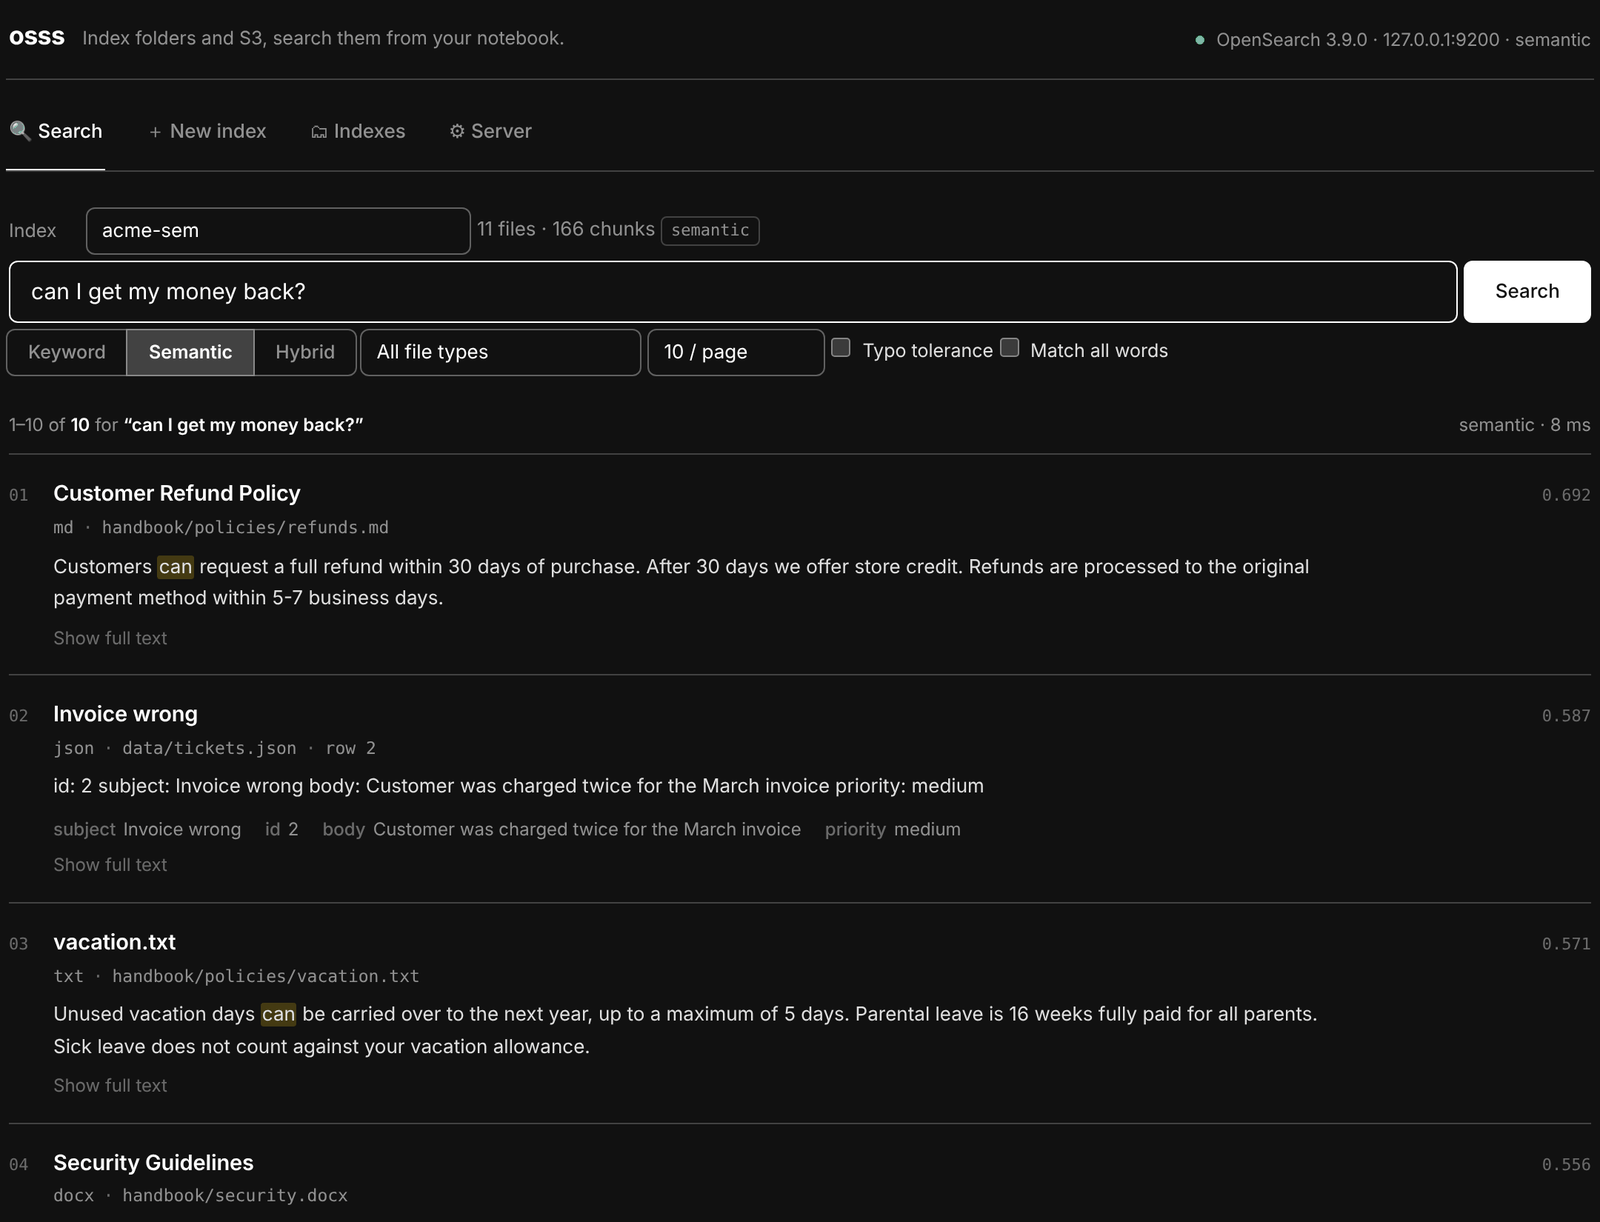
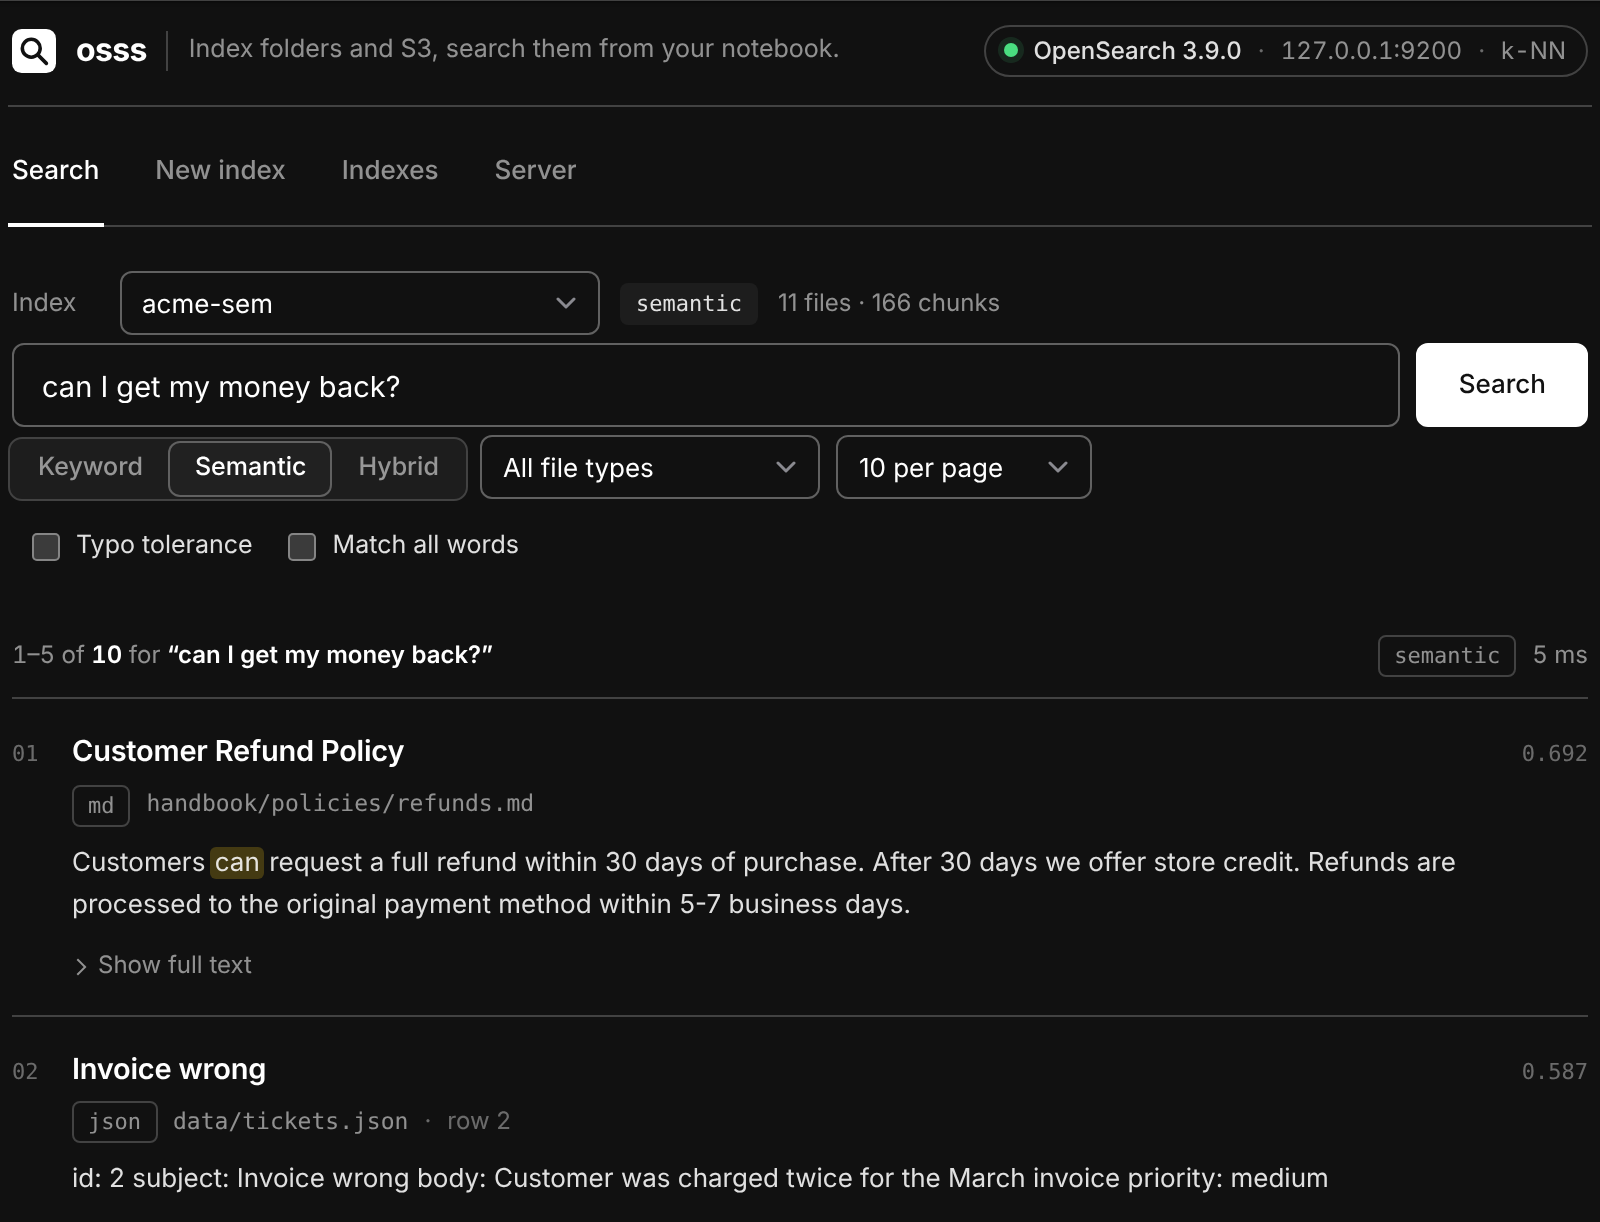
Regenerate docs screenshots for the new UI; fix row spacing and list indent
- All 15 app screenshots in docs/images are recaptured at 2x from a live
  JupyterLab against a real local OpenSearch and a sample corpus. The two
  semantic shots render the same Hit/SearchResults objects through the UI
  with a stand-in cluster, since the k-NN build and PyTorch weren't
  available in the capture environment.
- Docs and README refer to tabs and controls by their new plain names and
  describe the live scan count, inline messages, the confirm-to-delete
  state and the locked server options.
- ipywidgets' Layout has no `gap` trait, so the gap= passed to rows was
  silently ignored; spacing is now applied with CSS classes.
- Scan file lists were indented in plain cell outputs because JupyterLab's
  rendered-HTML `ul` rules out-rank ours.

Claude-Session: https://claude.ai/code/session_011KqyjRbeUxaqxTYBneMNoE

diff --git a/src/osss/ui/styles.py b/src/osss/ui/styles.py
@@ -209,7 +209,9 @@ body[data-jp-theme-light="false"] .osss, .vscode-dark .osss, .vscode-high-contra
 .osss table.o-table .num { text-align: right; font-variant-numeric: tabular-nums; }
 .osss table.o-table tr:last-child td { border-bottom: 0; }
 .osss .o-health { display: inline-flex; align-items: center; gap: 8px; }
-.osss .o-files { margin: 12px 0 0; padding: 0; list-style: none; font-size: 12px; max-height: 260px; overflow: auto; }
+/* !important: JupyterLab's rendered-HTML rules (``.jp-RenderedHTMLCommon ul``) are more specific */
+.osss ul.o-files { margin: 12px 0 0 !important; padding: 0 !important; list-style: none !important; font-size: 12px; max-height: 260px; overflow: auto; }
+.osss ul.o-files li { margin: 0 !important; }
 .osss .o-files li { display: flex; justify-content: space-between; gap: 16px; padding: 6px 0; border-top: 1px solid var(--o-line); color: var(--o-fg2); }
 .osss .o-files li span:first-child { font-family: var(--o-mono); font-size: 11.5px; overflow: hidden; text-overflow: ellipsis; white-space: nowrap; min-width: 0; }
 .osss .o-files li span:last-child { color: var(--o-faint); flex: none; font-variant-numeric: tabular-nums; }
@@ -357,6 +359,10 @@ body[data-jp-theme-light="false"] .osss, .vscode-dark .osss, .vscode-high-contra
 .osss-app .o-panel-head { margin-bottom: 4px; }
 .osss-app .o-divider { border-top: 1px solid var(--o-line); margin: 10px 0 6px !important; }
 .osss-app .o-flat { padding: 0 !important; }
+.osss-app .o-g4 { gap: 4px; }
+.osss-app .o-g6 { gap: 6px; }
+.osss-app .o-g10 { gap: 10px; }
+.osss-app .o-g14 { gap: 14px; }
 .osss-app .o-stack { gap: 6px; }
 .osss-app .o-stack > .widget-html:first-child .widget-html-content { line-height: 1.2; }
 </style>

diff --git a/src/osss/ui/app.py b/src/osss/ui/app.py
@@ -43,11 +43,16 @@ def _panel(*children: W.Widget, gap: str = "8px") -> W.VBox:
     return box
 
 
+ROW_GAPS = (4, 6, 10, 14)  # extra px on top of the 2px margin every widget already has on each side
+
+
 def _row(*children: W.Widget, align: str = "center", wrap: bool = True, gap: str = "8px") -> W.HBox:
     lay = dict(align_items=align, flex_flow="row wrap" if wrap else "row nowrap")
-    if _supports_gap():
-        lay["gap"] = gap
-    return W.HBox(list(children), layout=W.Layout(**lay))
+    box = W.HBox(list(children), layout=W.Layout(**lay))
+    # ipywidgets' Layout has no ``gap`` trait (only ``grid_gap``), so spacing is applied with a CSS class.
+    extra = max(0, int(gap.rstrip("px")) - 4)
+    box.add_class(f"o-g{min(ROW_GAPS, key=lambda g: abs(g - extra))}")
+    return box
 
 
 def _supports_gap() -> bool:

diff --git a/docs/guide/app.md b/docs/guide/app.md
@@ -11,17 +11,17 @@ It has four tabs:
 
 | Tab | Use it to |
 | --- | --- |
-| **🔍 Search** | Query an index, filter results and page through them |
-| **＋ New index** | Point at a folder or S3 prefix, configure and build |
-| **🗂 Indexes** | See what's there, add files or delete indexes |
-| **⚙ Server** | Start or stop OpenSearch, or connect to an existing cluster |
+| **Search** | Query an index, filter results and page through them |
+| **New index** | Point at a folder or S3 prefix, configure and build |
+| **Indexes** | See what's there, add files or delete indexes |
+| **Server** | Start or stop OpenSearch, or connect to an existing cluster |
 
 The status in the top-right corner always shows what you're connected to.
 
 !!! tip "Light and dark"
     The app follows your JupyterLab theme automatically. SageMaker Studio's dark mode works too.
 
-## 🔍 Search
+## Search
 
 ![Search tab](../images/search.png){ .shot .shot-light }
 ![Search tab, dark theme](../images/search-dark.png){ .shot .shot-dark }
@@ -29,9 +29,9 @@ The status in the top-right corner always shows what you're connected to.
 1. **Pick an index** from the dropdown. Next to it you'll see how many files and chunks it holds, and whether it supports semantic search.
 2. **Type a query** and press ++enter++, or click **Search**.
 3. **Refine** with the controls below the search box:
-    - **Keyword / Semantic / Hybrid** chooses how results are found. Semantic and hybrid appear only for indexes built with embeddings ([learn more](semantic.md)).
+    - **Keyword / Semantic / Hybrid** chooses how results are found. This switch appears only for indexes built with embeddings ([learn more](semantic.md)); other indexes always use keyword search.
     - **All file types** limits results to PDFs only, CSV rows only, and so on.
-    - **10 / page** sets how many results to show at a time.
+    - **10 per page** sets how many results to show at a time.
     - **Typo tolerance** still finds `refnud` when you meant `refund`.
     - **Match all words** requires every word instead of any of them.
 
@@ -51,17 +51,17 @@ With an empty search box, the tab shows an overview of the index and the first c
 !!! tip "Query syntax"
     `"exact phrase"`, `-exclude`, `prefix*` and `this | that` all work. See [Searching](searching.md#query-syntax).
 
-## ＋ New index
+## New index
 
 Building an index takes three steps, top to bottom.
 
 ### 01 · Choose your data
 
-Choose **📁 Local folder** or **☁ Amazon S3**, enter the path, and click **Scan**.
+Choose **Local folder** or **Amazon S3**, enter the path, and click **Scan**.
 
 ![Choosing an S3 prefix](../images/source-s3.png){ .shot }
 
-The scan counts files, total size and file types, lists a sample of files, and warns about any types osss can't read. Nothing is indexed yet.
+While it runs, a live counter shows how many files have been found so far, which helps on large S3 prefixes. The result counts files, total size and file types, lists a sample of files, and warns about any types osss can't read (they're shown struck through and marked *skipped*). Nothing is indexed yet.
 
 ![Scan results](../images/source-scan.png){ .shot }
 
@@ -87,31 +87,32 @@ The scan counts files, total size and file types, lists a sample of files, and w
 
 ### 03 · Build
 
-Click **Build index**. You'll see a live progress bar, counters for files, chunks, errors and elapsed time, and the most recent files processed. **Cancel** stops cleanly at any point.
+Click **Build index**. The button changes to *Building…* and you'll see a live progress bar, counters for files, chunks, errors and elapsed time, and the most recent files processed. **Cancel** stops cleanly at any point. If something needs fixing first (no server running, the name is taken, no file types selected), the message appears right under the button.
 
 When it finishes, a summary lists what was indexed, and any skipped or failed files with the reason. **Search this index** takes you straight to the results.
 
 ![Build finished](../images/build-step.png){ .shot }
 
-## 🗂 Indexes
+## Indexes
 
 ![Indexes tab](../images/indexes.png){ .shot }
 
 - The table shows every index with its chunk count, size on disk and health.
 - **Open in Search** jumps to the Search tab with that index selected.
-- **Details** shows the index's settings, file types and a few sample documents.
+- **Show details** shows the index's settings, file types and a few sample documents.
 - **Add files** indexes another folder or S3 prefix into the same index, using its original settings. Files that were indexed before are **replaced, not duplicated**, so re-running it after your documents change is safe.
-- **Delete** asks you to click twice, so nothing is removed by accident.
+- **Delete** turns red and asks you to click again to confirm, so nothing is removed by accident.
 
-## ⚙ Server
+## Server
 
 ![Server tab](../images/server.png){ .shot }
 
 **Local OpenSearch** controls the server on this machine:
 
 - **Include k-NN plugin** turns on support for semantic and hybrid search. It's a one-time download of about 1 GB.
-- **Memory** is the Java heap. `1g` fits on small instances; use `2g`–`4g` for millions of chunks.
-- **Backend** is `Auto` (Docker when available, otherwise the self-contained tarball), or you can force one.
+- **Memory** is the Java heap. 1 GB fits on small instances; use 2–4 GB for millions of chunks.
+- **Backend** is *Auto* (Docker when available, otherwise the self-contained tarball), or you can force one.
+- Memory, port and backend apply when the server starts, so they're locked while it's running. Stop it to change them.
 - **Logs** shows the server log if something goes wrong.
 
 **Existing cluster** connects to Amazon OpenSearch Service, OpenSearch Serverless or any self-managed cluster. With *Auto* auth, `*.amazonaws.com` endpoints are signed with your AWS credentials (in SageMaker, the execution role).

diff --git a/README.md b/README.md
@@ -132,10 +132,10 @@ cluster = osss.connect("https://localhost:9200", username="admin", password="…
 
 | Tab | What it does |
 | --- | --- |
-| 🔍 Search | Pick an index, then search with keyword, semantic or hybrid mode. Filter by file type, page through results, and expand any hit to see the full chunk. |
-| ＋ New index | **01** Choose a local folder or S3 prefix and scan it to preview files and types. **02** Configure the index. **03** Build it with live progress, a cancel button and a summary of what was skipped. |
-| 🗂 Indexes | See every index with its size and health. Inspect, add files, or delete. |
-| ⚙ Server | Start or stop the local OpenSearch and choose memory, port and backend, or connect to a remote cluster. |
+| Search | Pick an index, then search with keyword, semantic or hybrid mode. Filter by file type, page through results, and expand any hit to see the full chunk. |
+| New index | **01** Choose a local folder or S3 prefix and scan it to preview files and types. **02** Configure the index. **03** Build it with live progress, a cancel button and a summary of what was skipped. |
+| Indexes | See every index with its size and health. Inspect, add files, or delete. |
+| Server | Start or stop the local OpenSearch and choose memory, port and backend, or connect to a remote cluster. |
 
 <p align="center">
   <img src="docs/images/new-index.png" width="420" alt="New index wizard">

diff --git a/docs/guide/indexing.md b/docs/guide/indexing.md
@@ -12,7 +12,7 @@ idx = cluster.create_index(
 idx.last_report                      # what was indexed, skipped or failed
 ```
 
-From the app, this is the [＋ New index](app.md#new-index) tab. From the terminal, it's `osss index`.
+From the app, this is the [New index](app.md#new-index) tab. From the terminal, it's `osss index`.
 
 ## The build report
 
@@ -82,7 +82,7 @@ idx.add("s3://bucket/handbook/2025/")
 idx.add("./handbook")             # re-run after editing files
 ```
 
-`add` uses the index's original settings. Chunks from a file that was indexed before are **replaced**, not duplicated, so `add` is safe to run on a schedule. From the app, use **🗂 Indexes → Add files**. From the terminal: `osss index ./handbook --name handbook --add`.
+`add` uses the index's original settings. Chunks from a file that was indexed before are **replaced**, not duplicated, so `add` is safe to run on a schedule. From the app, use **Indexes → Add files**. From the terminal: `osss index ./handbook --name handbook --add`.
 
 To rebuild from scratch:
 

diff --git a/docs/getting-started/quickstart.md b/docs/getting-started/quickstart.md
@@ -20,7 +20,7 @@ By the end of this page you'll have a running OpenSearch, an index built from yo
     osss.ui()
     ```
 
-    The first time, the app opens on the **⚙ Server** tab, because there's no OpenSearch running yet.
+    The first time, the app opens on the **Server** tab, because there's no OpenSearch running yet.
 
     ### Start OpenSearch
 
@@ -33,7 +33,7 @@ By the end of this page you'll have a running OpenSearch, an index built from yo
 
     ### Choose your data
 
-    Open **＋ New index**. Choose **📁 Local folder** or **☁ Amazon S3**, paste a path, and click **Scan**. You'll see how many files there are, their types and their total size, before anything is indexed.
+    Open **New index**. Choose **Local folder** or **Amazon S3**, paste a path, and click **Scan**. You'll see how many files there are, their types and their total size, before anything is indexed.
 
     ![Choose your data and scan it](../images/source-scan.png){ .shot }
 

diff --git a/docs/guide/server.md b/docs/guide/server.md
@@ -100,7 +100,7 @@ cluster = osss.connect("https://opensearch.internal:9200", username="admin", pas
 cluster = osss.connect("https://localhost:9200", username="admin", password="…", verify_certs=False)
 ```
 
-Everything else (creating indexes, searching, the app) works the same. In the app, use **⚙ Server → Existing cluster**.
+Everything else (creating indexes, searching, the app) works the same. In the app, use **Server → Existing cluster**.
 
 !!! note "Semantic search on a remote cluster"
     Amazon OpenSearch Service and Serverless include k-NN. For self-managed clusters, install the `opensearch-knn` plugin.
@@ -115,7 +115,7 @@ print(osss.LocalServer().logs(100))
 osss logs -n 100
 ```
 
-In the app: **⚙ Server → Logs**.
+In the app: **Server → Logs**.
 
 <div class="next" markdown>
 [Command line →](cli.md){ .md-button .md-button--primary }

diff --git a/docs/troubleshooting.md b/docs/troubleshooting.md
@@ -32,7 +32,7 @@ Add `OSSS_DEBUG=1` to any CLI command for a full traceback. In the app, open **T
     ```
 
 ??? question "Something else is wrong with the server"
-    Look at the logs: `osss logs -n 200`, or **⚙ Server → Logs** in the app. As a last resort, reset everything (this deletes your indexes):
+    Look at the logs: `osss logs -n 200`, or **Server → Logs** in the app. As a last resort, reset everything (this deletes your indexes):
     ```python
     osss.LocalServer().uninstall()
     ```

diff --git a/docs/reference/configuration.md b/docs/reference/configuration.md
@@ -2,7 +2,7 @@
 
 ## Index options (`IndexConfig`)
 
-Pass these to `cluster.create_index(...)` as keyword arguments, build an `osss.IndexConfig`, or set them in the app's **＋ New index** tab.
+Pass these to `cluster.create_index(...)` as keyword arguments, build an `osss.IndexConfig`, or set them in the app's **New index** tab.
 
 | Option | Type | Default | Description |
 | --- | --- | --- | --- |
